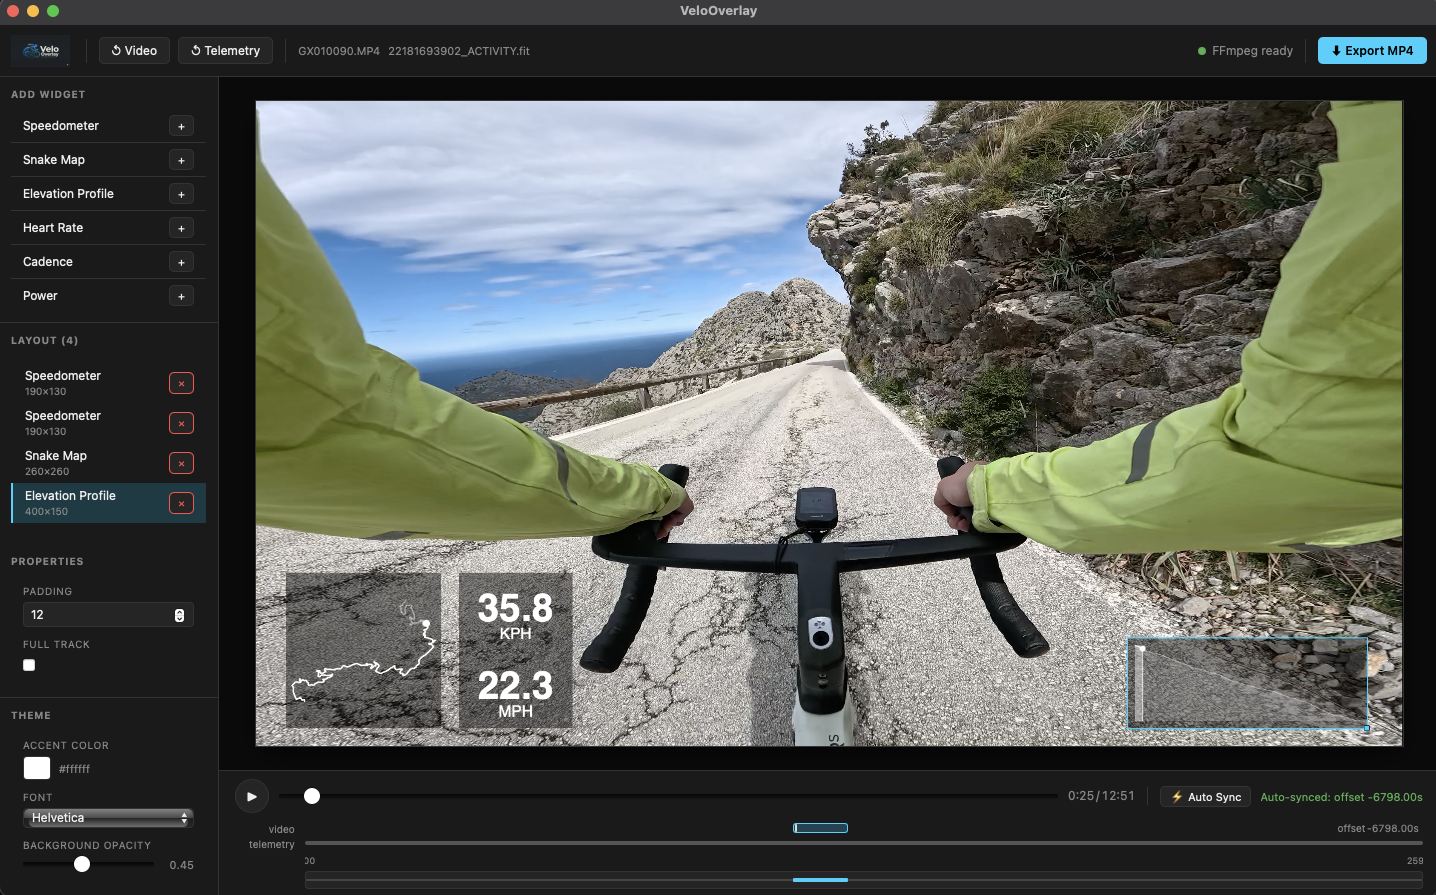
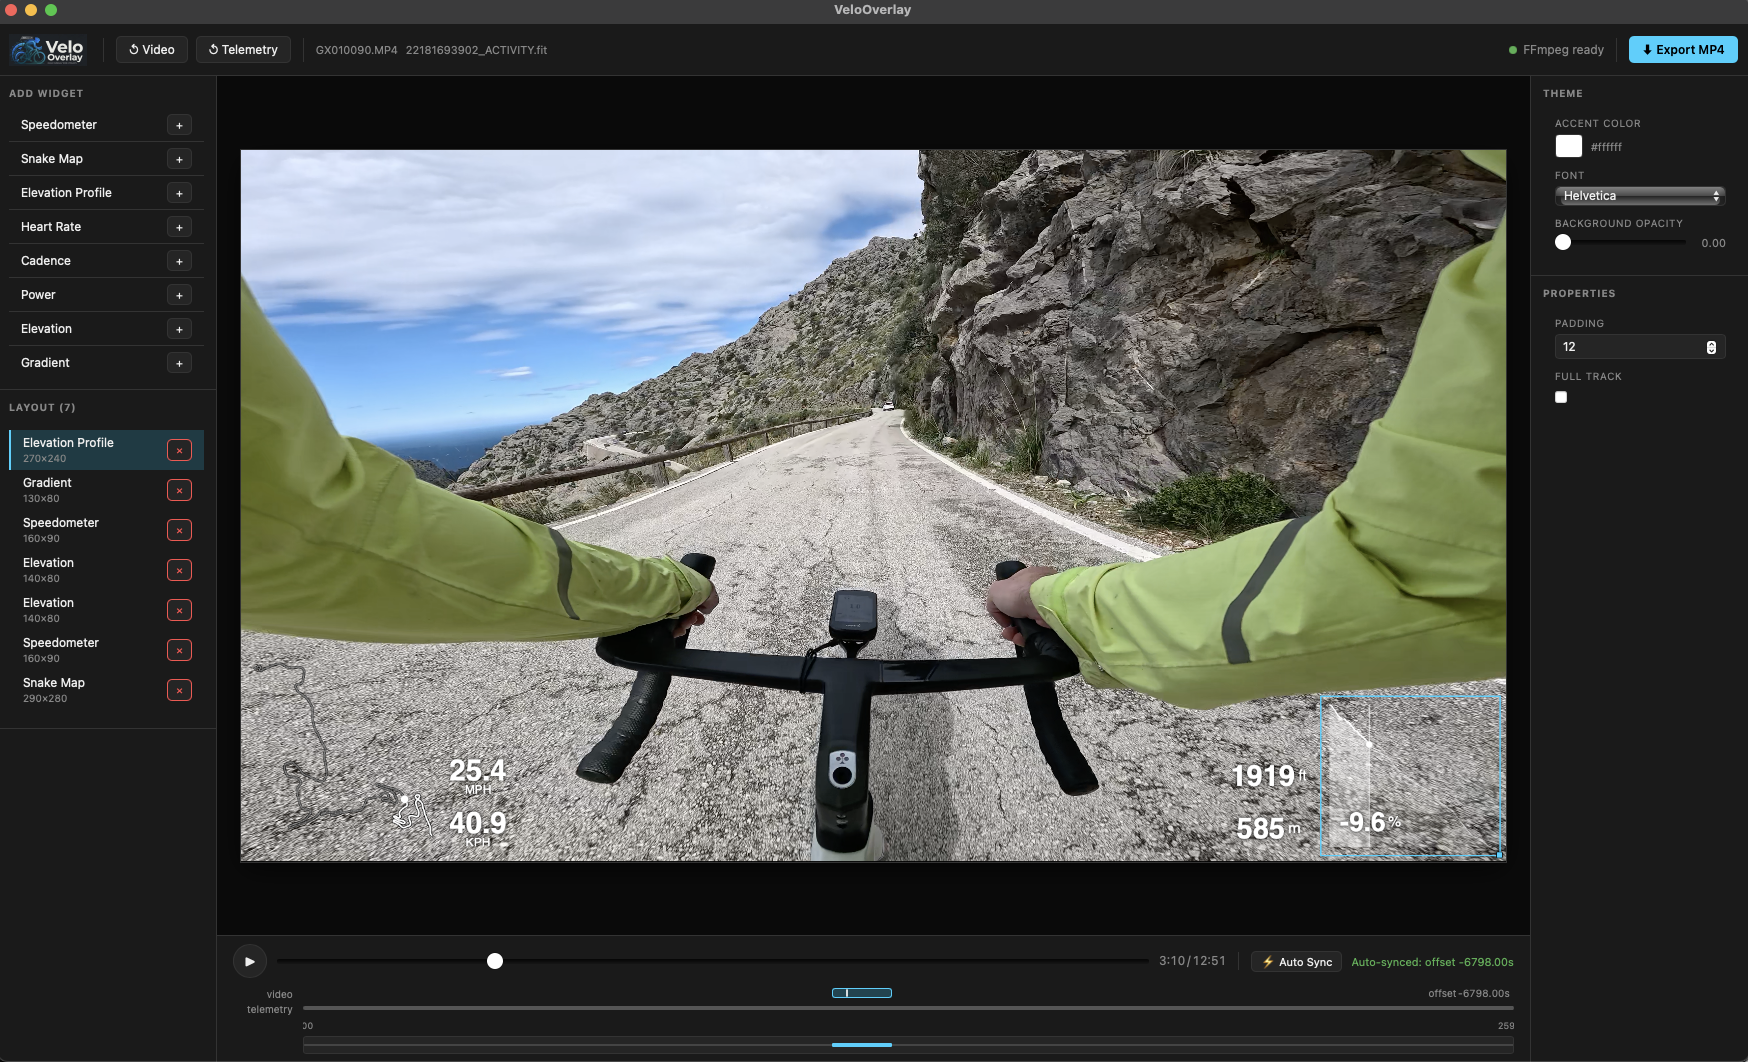
chore: styling on elevation and gradient

diff --git a/app/src/App.tsx b/app/src/App.tsx
@@ -7,13 +7,23 @@ import WidgetPanel from './components/WidgetPanel';
 import Stage from './components/Stage/index';
 import WidgetInspector from './components/WidgetInspector';
 
+const FONT_OPTIONS = [
+  { label: 'Helvetica', value: 'Helvetica, sans-serif' },
+  { label: 'Arial', value: 'Arial, sans-serif' },
+  { label: 'System UI', value: 'system-ui, sans-serif' },
+  { label: 'Georgia', value: 'Georgia, serif' },
+  { label: 'Impact', value: 'Impact, sans-serif' },
+];
+
 export default function App() {
   const init = useStore((s) => s.init);
   const layout = useStore((s) => s.layout);
   const selectedWidgetId = useStore((s) => s.selectedWidgetId);
+  const updateTheme = useStore((s) => s.updateTheme);
   const { isDragOver } = useDragDrop();
 
   const selectedWidget = layout.widgets.find((w) => w.id === selectedWidgetId) ?? null;
+  const theme = layout.theme;
 
   useEffect(() => {
     void init();
@@ -25,12 +35,62 @@ export default function App() {
       <div className="app-body">
         <WidgetPanel />
         <Stage />
-        {selectedWidget && (
-          <div className="inspector-panel">
-            <div className="inspector-panel-title">Properties</div>
-            <WidgetInspector instance={selectedWidget} />
+        <div className="inspector-panel">
+          {/* Theme — always visible at top */}
+          <div className="sidebar-section">
+            <div className="sidebar-section-title">Theme</div>
+            <div className="inspector-fields">
+              <div className="inspector-field">
+                <div className="inspector-field-label">Accent Color</div>
+                <div className="color-field">
+                  <label className="color-swatch" style={{ background: theme.primaryColor }}>
+                    <input
+                      type="color"
+                      value={theme.primaryColor}
+                      onChange={(e) => updateTheme({ primaryColor: e.target.value })}
+                      style={{ opacity: 0, position: 'absolute', width: 0, height: 0 }}
+                    />
+                  </label>
+                  <span style={{ fontSize: 11, color: 'var(--text-muted)' }}>{theme.primaryColor}</span>
+                </div>
+              </div>
+              <div className="inspector-field">
+                <div className="inspector-field-label">Font</div>
+                <select
+                  className="inspector-input"
+                  value={theme.fontFamily}
+                  onChange={(e) => updateTheme({ fontFamily: e.target.value })}
+                >
+                  {FONT_OPTIONS.map((f) => (
+                    <option key={f.value} value={f.value}>{f.label}</option>
+                  ))}
+                </select>
+              </div>
+              <div className="inspector-field">
+                <div className="inspector-field-label">Background Opacity</div>
+                <div className="range-field">
+                  <input
+                    type="range"
+                    min={0}
+                    max={1}
+                    step={0.05}
+                    value={theme.backgroundOpacity}
+                    onChange={(e) => updateTheme({ backgroundOpacity: Number(e.target.value) })}
+                  />
+                  <span className="range-readout">{theme.backgroundOpacity.toFixed(2)}</span>
+                </div>
+              </div>
+            </div>
           </div>
-        )}
+
+          {/* Widget properties — shown when a widget is selected */}
+          {selectedWidget && (
+            <div className="sidebar-section" style={{ borderBottom: 'none' }}>
+              <div className="sidebar-section-title">Properties</div>
+              <WidgetInspector instance={selectedWidget} />
+            </div>
+          )}
+        </div>
       </div>
 
       {/* Full-window drop overlay */}

diff --git a/app/src/components/WidgetPanel.tsx b/app/src/components/WidgetPanel.tsx
@@ -53,18 +53,8 @@ const CATALOG: WidgetCatalogEntry[] = [
   },
 ];
 
-const FONT_OPTIONS = [
-  { label: 'Helvetica', value: 'Helvetica, sans-serif' },
-  { label: 'Arial', value: 'Arial, sans-serif' },
-  { label: 'System UI', value: 'system-ui, sans-serif' },
-  { label: 'Georgia', value: 'Georgia, serif' },
-  { label: 'Impact', value: 'Impact, sans-serif' },
-];
-
 export default function WidgetPanel() {
-  const { layout, selectedWidgetId, addWidget, removeWidget, selectWidget, updateTheme } = useStore();
-
-  const theme = layout.theme;
+  const { layout, selectedWidgetId, addWidget, removeWidget, selectWidget } = useStore();
 
   return (
     <div className="sidebar">
@@ -119,56 +109,6 @@ export default function WidgetPanel() {
         </div>
       )}
 
-      {/* Theme section */}
-      <div className="sidebar-section" style={{ borderBottom: 'none' }}>
-        <div className="sidebar-section-title">Theme</div>
-        <div className="inspector-fields">
-          <div className="inspector-field">
-            <div className="inspector-field-label">Accent Color</div>
-            <div className="color-field">
-              <label className="color-swatch" style={{ background: theme.primaryColor }}>
-                <input
-                  type="color"
-                  value={theme.primaryColor}
-                  onChange={(e) => updateTheme({ primaryColor: e.target.value })}
-                  style={{ opacity: 0, position: 'absolute', width: 0, height: 0 }}
-                />
-              </label>
-              <span style={{ fontSize: 11, color: 'var(--text-muted)' }}>{theme.primaryColor}</span>
-            </div>
-          </div>
-
-          <div className="inspector-field">
-            <div className="inspector-field-label">Font</div>
-            <select
-              className="inspector-input"
-              value={theme.fontFamily}
-              onChange={(e) => updateTheme({ fontFamily: e.target.value })}
-            >
-              {FONT_OPTIONS.map((f) => (
-                <option key={f.value} value={f.value}>
-                  {f.label}
-                </option>
-              ))}
-            </select>
-          </div>
-
-          <div className="inspector-field">
-            <div className="inspector-field-label">Background Opacity</div>
-            <div className="range-field">
-              <input
-                type="range"
-                min={0}
-                max={1}
-                step={0.05}
-                value={theme.backgroundOpacity}
-                onChange={(e) => updateTheme({ backgroundOpacity: Number(e.target.value) })}
-              />
-              <span className="range-readout">{theme.backgroundOpacity.toFixed(2)}</span>
-            </div>
-          </div>
-        </div>
-      </div>
     </div>
   );
 }

diff --git a/packages/widgets-builtin/src/metric-tile-gradient.ts b/packages/widgets-builtin/src/metric-tile-gradient.ts
@@ -32,25 +32,32 @@ export const GradientWidget: WidgetDefinition<GradientConfig> = {
         ? null
         : computeGradient(route.points, frame, config.windowM);
 
-    // Label
-    c.fillStyle = 'rgba(255,255,255,0.6)';
-    c.font = `${height * 0.18}px ${theme.fontFamily}`;
-    c.textAlign = 'center';
-    c.textBaseline = 'top';
-    c.fillText('GRADIENT', width / 2, height * 0.08);
-
-    // Value — slightly smaller font than other tiles to fit sign + decimal
     const valueStr = pct !== null ? formatPct(pct) : '--';
-    c.fillStyle = pct !== null ? theme.primaryColor : 'rgba(255,255,255,0.3)';
-    c.font = `bold ${height * 0.38}px ${theme.fontFamily}`;
-    c.textBaseline = 'middle';
-    c.fillText(valueStr, width / 2, height * 0.55);
+    const unitStr = '%';
+    const gap = height * 0.04;
 
-    // Unit
-    c.fillStyle = 'rgba(255,255,255,0.5)';
-    c.font = `${height * 0.16}px ${theme.fontFamily}`;
-    c.textBaseline = 'bottom';
-    c.fillText('%', width / 2, height * 0.97);
+    const valueFontSize = height * 0.50;
+    const unitFontSize = height * 0.28;
+
+    c.textBaseline = 'middle';
+    c.textAlign = 'left';
+
+    c.font = `bold ${valueFontSize}px ${theme.fontFamily}`;
+    const valueWidth = c.measureText(valueStr).width;
+
+    c.font = `${unitFontSize}px ${theme.fontFamily}`;
+    const unitWidth = c.measureText(unitStr).width;
+
+    const startX = (width - valueWidth - gap - unitWidth) / 2;
+    const midY = height / 2;
+
+    c.font = `bold ${valueFontSize}px ${theme.fontFamily}`;
+    c.fillStyle = pct !== null ? theme.primaryColor : 'rgba(255,255,255,0.3)';
+    c.fillText(valueStr, startX, midY);
+
+    c.font = `${unitFontSize}px ${theme.fontFamily}`;
+    c.fillStyle = theme.primaryColor;
+    c.fillText(unitStr, startX + valueWidth + gap, midY);
   },
 };
 

diff --git a/packages/widgets-builtin/src/metric-tile-elevation.ts b/packages/widgets-builtin/src/metric-tile-elevation.ts
@@ -27,23 +27,31 @@ export const ElevationWidget: WidgetDefinition<ElevationConfig> = {
       ? (config.unit === 'ft' ? raw * 3.28084 : raw)
       : null;
 
-    // Label
-    c.fillStyle = 'rgba(255,255,255,0.6)';
-    c.font = `${height * 0.18}px ${theme.fontFamily}`;
-    c.textAlign = 'center';
-    c.textBaseline = 'top';
-    c.fillText('ELEVATION', width / 2, height * 0.08);
+    const valueStr = value !== null ? String(Math.round(value)) : '--';
+    const unitStr = config.unit;
+    const gap = height * 0.06;
 
-    // Value
-    c.fillStyle = value !== null ? theme.primaryColor : 'rgba(255,255,255,0.3)';
-    c.font = `bold ${height * 0.42}px ${theme.fontFamily}`;
+    const valueFontSize = height * 0.55;
+    const unitFontSize = height * 0.28;
+
     c.textBaseline = 'middle';
-    c.fillText(value !== null ? String(Math.round(value)) : '--', width / 2, height * 0.55);
+    c.textAlign = 'left';
 
-    // Unit
-    c.fillStyle = 'rgba(255,255,255,0.5)';
-    c.font = `${height * 0.16}px ${theme.fontFamily}`;
-    c.textBaseline = 'bottom';
-    c.fillText(config.unit, width / 2, height * 0.97);
+    c.font = `bold ${valueFontSize}px ${theme.fontFamily}`;
+    const valueWidth = c.measureText(valueStr).width;
+
+    c.font = `${unitFontSize}px ${theme.fontFamily}`;
+    const unitWidth = c.measureText(unitStr).width;
+
+    const startX = (width - valueWidth - gap - unitWidth) / 2;
+    const midY = height / 2;
+
+    c.font = `bold ${valueFontSize}px ${theme.fontFamily}`;
+    c.fillStyle = value !== null ? theme.primaryColor : 'rgba(255,255,255,0.3)';
+    c.fillText(valueStr, startX, midY);
+
+    c.font = `${unitFontSize}px ${theme.fontFamily}`;
+    c.fillStyle = theme.primaryColor;
+    c.fillText(unitStr, startX + valueWidth + gap, midY);
   },
 };

diff --git a/packages/widgets-builtin/src/metric-tile.ts b/packages/widgets-builtin/src/metric-tile.ts
@@ -42,7 +42,7 @@ export function makeMetricTileWidget(opts: {
       c.fillText(value !== null ? String(Math.round(value)) : '--', width / 2, height * 0.55);
 
       // Unit (bottom)
-      c.fillStyle = 'rgba(255,255,255,0.5)';
+      c.fillStyle = theme.primaryColor;
       c.font = `${height * 0.16}px ${theme.fontFamily}`;
       c.textBaseline = 'bottom';
       c.fillText(opts.unit, width / 2, height * 0.97);

diff --git a/README.md b/README.md
@@ -209,15 +209,20 @@ cargo run --package velooverlay -- render \
 
 The `--layout` argument points to a `layout.json` file that describes which widgets to show and where. See [`examples/layout.json`](examples/layout.json) for a full example.
 
-Widget types available in Phase 0:
+Built-in widget types (used in `layout.json` under each widget's `config` object):
 
-| Type | Description |
-|---|---|
-| `builtin:speedometer` | Current speed. Config: `"unit": "kph"` or `"mph"` |
-| `builtin:heart-rate` | Heart rate in BPM |
-| `builtin:cadence` | Cadence in RPM |
-| `builtin:power` | Power in Watts |
-| `builtin:snake-map` | GPS route map. Config: `"full_track": true` to show the entire activity even if the video is a clip |
+| Type | Config (JSON keys) | Rendered by CLI export (`velooverlay render` / GUI Export MP4)? |
+|---|---|---|
+| `builtin:speedometer` | `{"unit": "kph" \| "mph"}` (default: `kph`) | Yes |
+| `builtin:heart-rate` | `{}` (no options) | Yes |
+| `builtin:cadence` | `{}` (no options) | Yes |
+| `builtin:power` | `{}` (no options) | Yes |
+| `builtin:snake-map` | `{"full_track": true \| false}` (default: `false`) | Yes |
+| `builtin:elevation-profile` | `{"full_track": true \| false}` (default: `false`) | Yes |
+| `builtin:elevation` | `{"unit": "m" \| "ft"}` (GUI preview only; see note below) | No |
+| `builtin:gradient` | `{"windowM": number}` (GUI preview only; see note below) | No |
+
+Note: the GUI may expose additional per-widget options (for example, `padding`) that are not currently consumed by the Rust CLI renderer. If you’re preparing a `layout.json` for CLI export, prefer the keys listed above.
 
 ---
 
